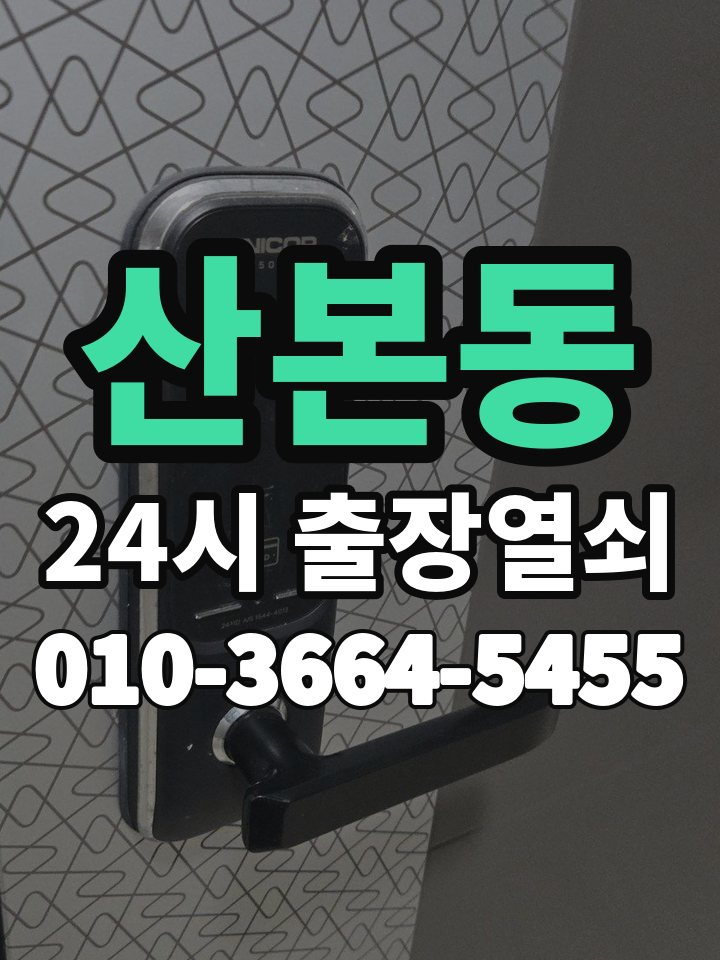
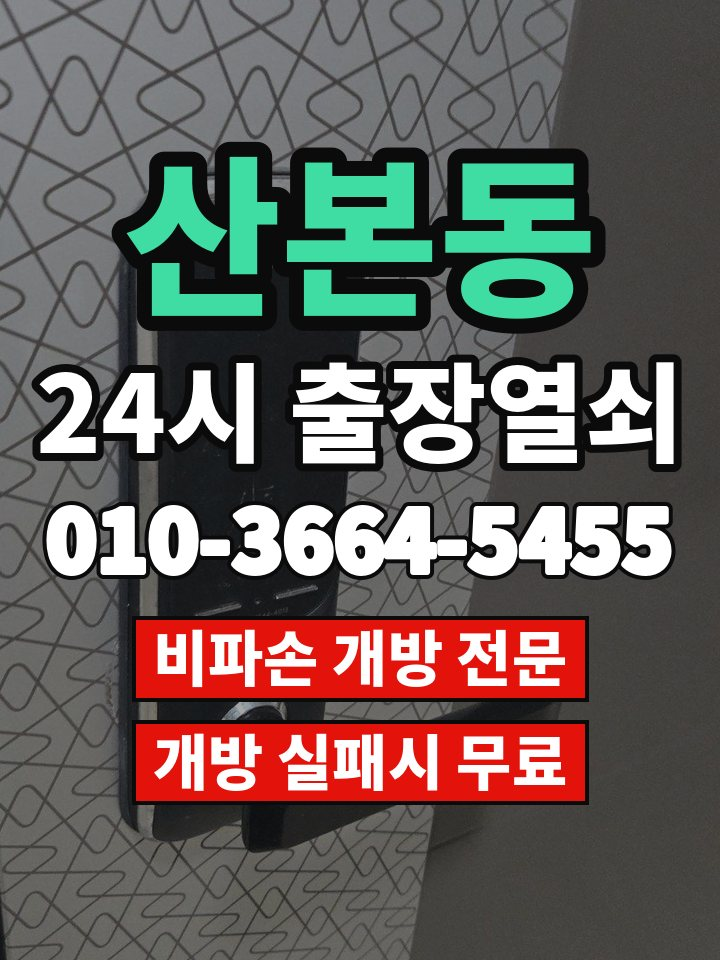
블로그 본문 사진에 '비파손 개방 전문', '개방 실패시 무료' 문구 추가
Claude-Session: https://claude.ai/code/session_01WdSMUapH9xtpaicykBEBz7

diff --git a/_tools/blog.py b/_tools/blog.py
@@ -119,8 +119,8 @@ def save_clean(im, path, quality):
     clean.save(path, "JPEG", quality=quality, optimize=True, progressive=True)
 
 
-def card(out, place, photo, w, h, shift=0.5, bright=0.62, quality=84):
-    """동네 이름 / 24시 출장열쇠 / 전화번호 를 실제 사진 위에 얹는다."""
+def card(out, place, photo, w, h, shift=0.5, bright=0.62, quality=84, tags=()):
+    """동네 이름 / 24시 출장열쇠 / 전화번호 를 실제 사진 위에 얹는다. tags 가 있으면 아래에 빨간 띠로 추가."""
     bg = Image.open(os.path.join(HERE, "thumb_bg", f"bg{photo:02d}.jpg")).convert("RGB")
     s = max(w / bg.width, h / bg.height) * 1.08
     bg = bg.resize((int(bg.width * s) + 1, int(bg.height * s) + 1), Image.LANCZOS)
@@ -128,13 +128,18 @@ def card(out, place, photo, w, h, shift=0.5, bright=0.62, quality=84):
     t = int((bg.height - h) * (1 - shift))
     im = ImageEnhance.Brightness(bg.crop((l, t, l + w, t + h))).enhance(bright)
     d = ImageDraw.Draw(im)
-    base = min(w, h * 0.95)
+    base = min(w, h * 0.95) * (0.84 if tags else 1)
     lines = [(place, base * 0.284, MINT, 0.09), ("24시 출장열쇠", base * 0.185, "#ffffff", 0.08),
              (TEL, base * 0.172, "#ffffff", 0.09)]
     fonts = [_fit(d, t, int(sz), w - int(w * 0.09)) for t, sz, _, _ in lines]
     hs = [f.getbbox(t)[3] - f.getbbox(t)[1] for (t, *_), f in zip(lines, fonts)]
     gap = int(h * 0.045)
-    y = (h - sum(hs) - gap * 2) // 2
+    tf = _font(int(base * 0.1)) if tags else None
+    pad_x, pad_y = int(base * 0.035), int(base * 0.022)
+    tag_hs = [tf.getbbox(t)[3] - tf.getbbox(t)[1] + pad_y * 2 for t in tags]
+    tag_gap = int(h * 0.02)
+    total = sum(hs) + gap * 2 + (gap + sum(tag_hs) + tag_gap * (len(tags) - 1) if tags else 0)
+    y = (h - total) // 2
     for i, ((text, _, color, sk), f, hh) in enumerate(zip(lines, fonts, hs)):
         bb = f.getbbox(text)
         x = (w - (bb[2] - bb[0])) // 2 - bb[0]
@@ -143,6 +148,14 @@ def card(out, place, photo, w, h, shift=0.5, bright=0.62, quality=84):
         if i == 2:  # 전화번호는 한 번 더 굵게
             d.text((x, y - bb[1]), text, font=f, fill=color, stroke_width=max(2, f.size // 28), stroke_fill=color)
         y += hh + gap
+    for t, th in zip(tags, tag_hs):
+        bb = tf.getbbox(t)
+        tw = bb[2] - bb[0]
+        bw = tw + pad_x * 2
+        x0 = (w - bw) // 2
+        d.rectangle((x0, y, x0 + bw, y + th), fill="#e3120b", outline="#0b0b0b", width=max(3, int(base * 0.008)))
+        d.text((x0 + pad_x - bb[0], y + pad_y - bb[1]), t, font=tf, fill="#ffffff")
+        y += th + tag_gap
     save_clean(im, out, quality)
 
 
@@ -231,7 +244,7 @@ def main():
             ph = (p["photo"] + k * 3 - 1) % 20 + 1            # 사진마다 다른 배경
             card(os.path.join(img, name), p["place"], ph, w, h,
                  shift=(0.2, 0.8, 0.35, 0.65, 0.5)[k % 5], bright=(0.58, 0.64, 0.6, 0.66, 0.62)[k % 5],
-                 quality=(82, 86, 80, 84, 83)[k % 5])
+                 quality=(82, 86, 80, 84, 83)[k % 5], tags=("비파손 개방 전문", "개방 실패시 무료"))
     build_index(posts)
     add_to_sitemap(posts)
     return posts
